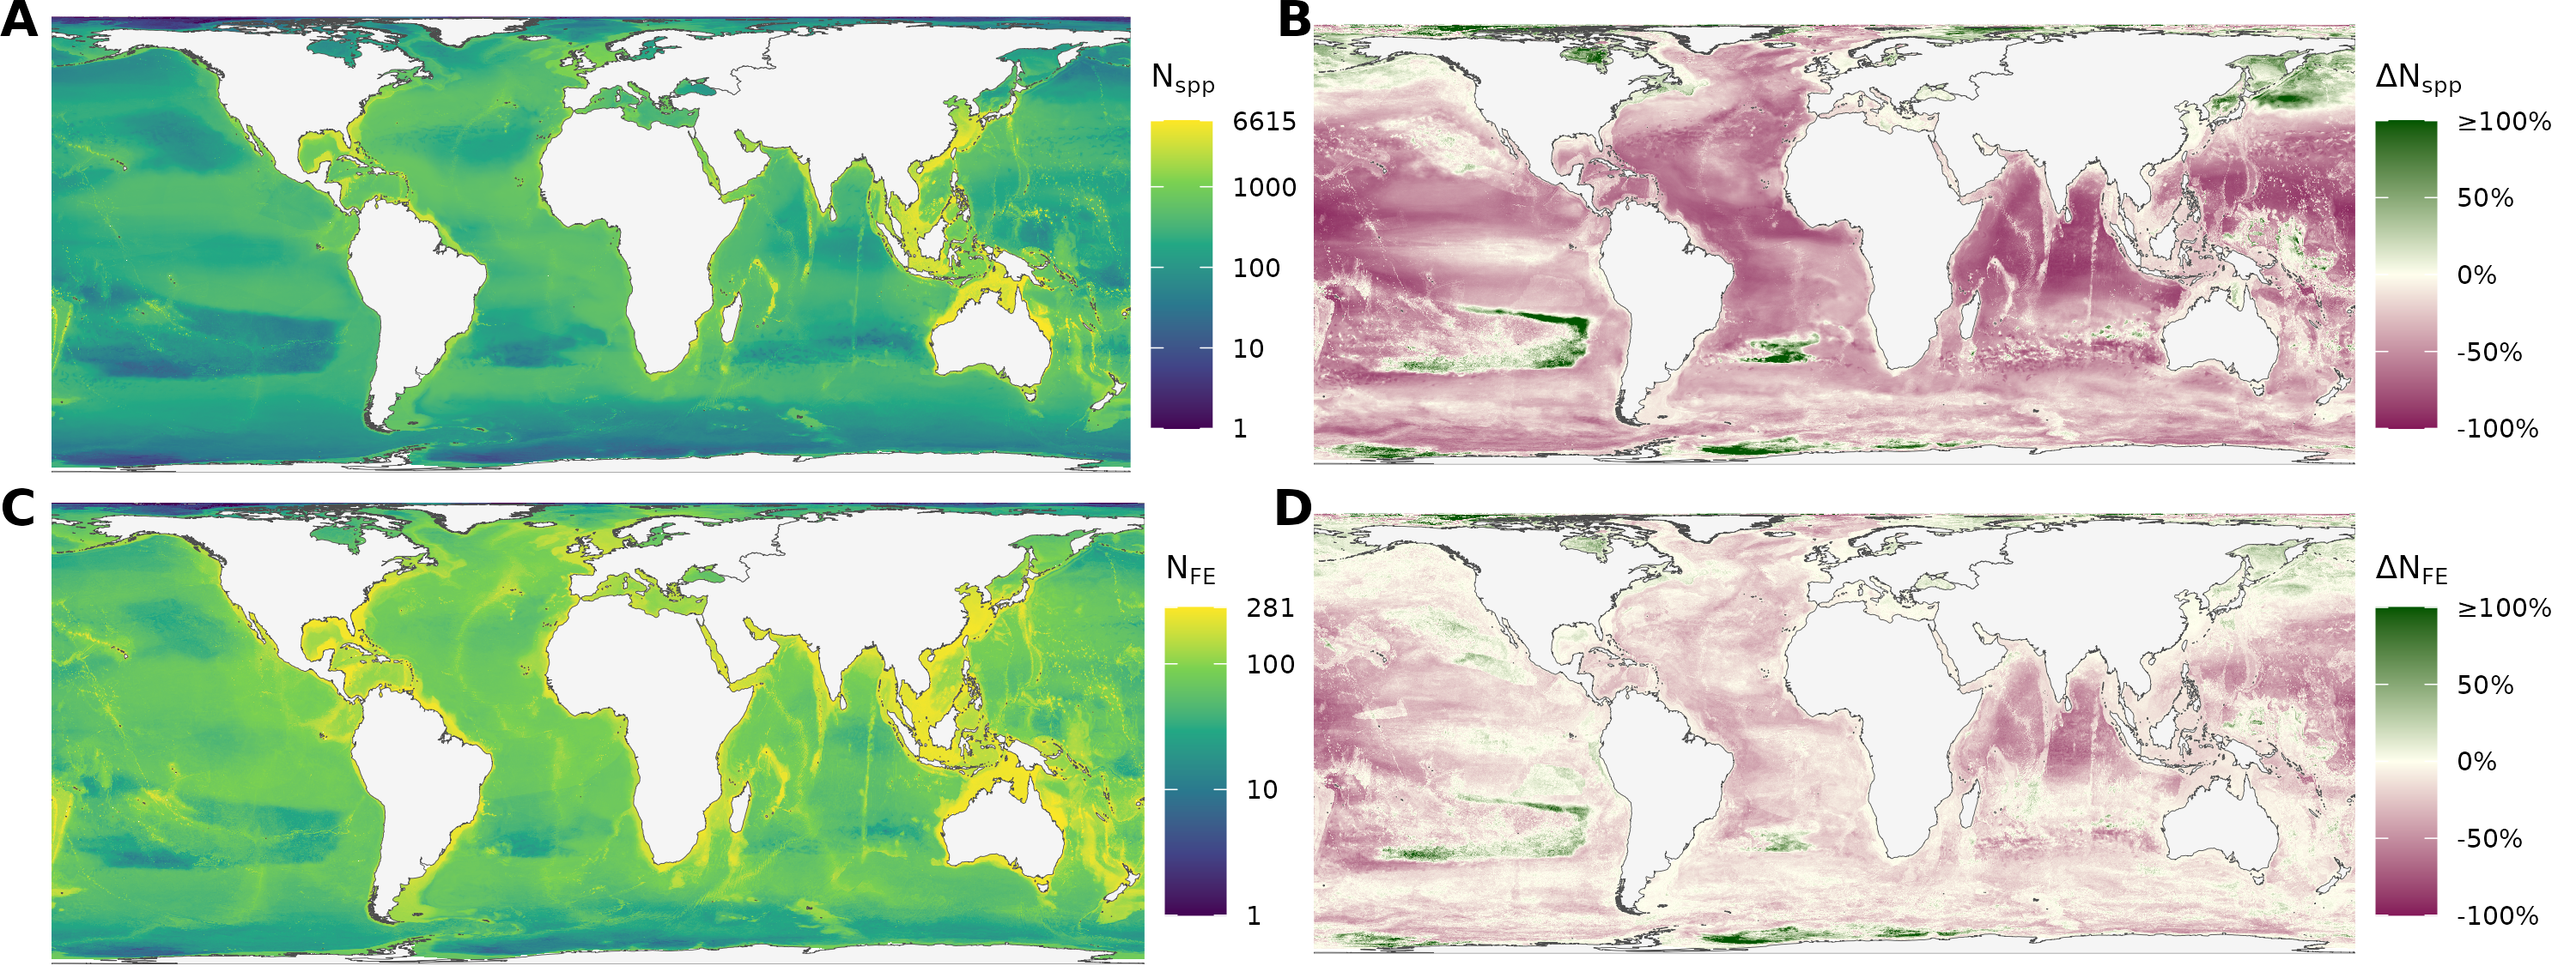
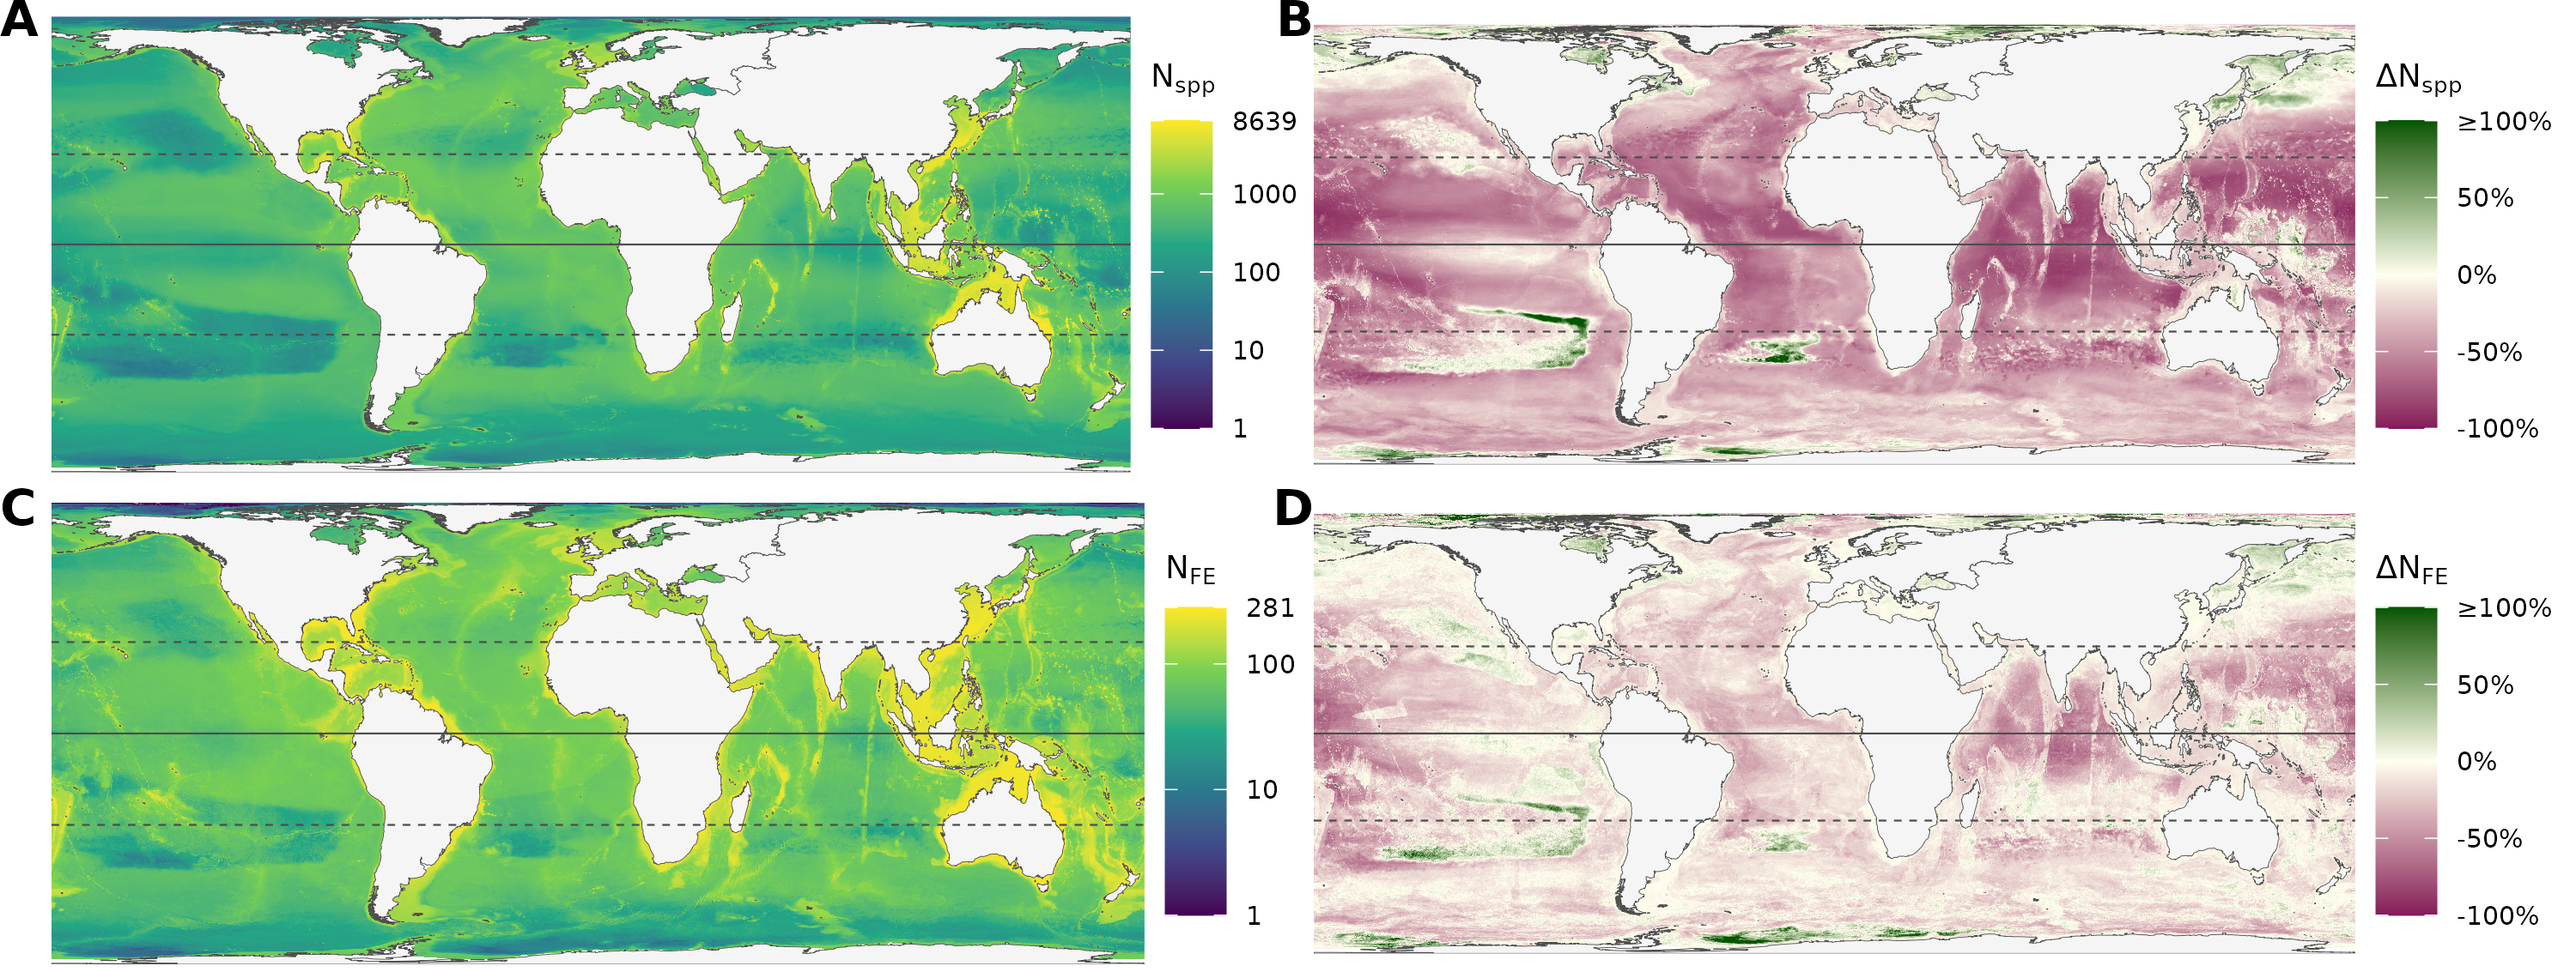
feat: add visualization of top predator richness, change, etc
Also added a function to standardize maps that includes lines for the tropic latitudes and equator

diff --git a/AGENTS.md b/AGENTS.md
@@ -1,0 +1,51 @@
+## Project
+
+`chi_shifts` examines how cumulative human impacts change as stressors and species ranges shift over time. Analysis combines species distribution models (SDMs), species vulnerability traits, and stressor (pressure) maps on a common global raster grid.
+
+## Directory structure
+
+- `data_mgmt/` — Quarto (`.qmd`) scripts (numbered `1_...` through `6_...`, plus `X_...` ad hoc ones) that download/build raw inputs into `_data/`. Run these before analysis scripts if a needed dataset is missing.
+- `scripts/` — Quarto (`.qmd`) analysis/mapping scripts (numbered `1_...` through `5_...`, plus `X_...` exploratory ones).
+- `_data/` — single consolidated data directory (previously split into `_data` and `_data_raw`; now merged). Subfolders by source/vintage:
+  - `biooracle_2026/` — Bio-ORACLE ocean temperature layers
+  - `eezs/` — EEZ and UN M49 georegion rasters/lookups
+  - `halpern_2025/` — Halpern et al. 2025 stressor/pressure/impact rasters (habitat maps, raw & rescaled pressures, impacts by pressure, cumulative impact)
+  - `iucn_redlist_2026/` — IUCN Red List assessments, WoRMS/AphiaID crosswalks
+  - `ohara_2024/` — species vulnerability framework traits/scores, functional entity traits
+  - `unep_wcmc_2026/` — MPA (WDPA/WDOECM) data
+- `_output/` — generated intermediate/final outputs (e.g. reprojected rasters, vuln maps by taxon).
+- `common_fxns.R` — shared helper functions (see below); source this at the top of scripts.
+- AquaX SDM source data lives outside the repo on the shared server at `/home/shares/data-aquax/` (accessed via `here_aquax()`), not under `_data/`.
+
+## Grid conventions
+
+Rasters/tables use a global lon-lat grid, default resolution `res = 0.05`, `ncols = 360/res`, with a 1-indexed row-major `cell_id` (row 1 = cells 1..ncols, scanning left to right). Convert between representations with the helpers in `common_fxns.R`:
+
+- `cell_id_to_xy(df, cell_id_col = 'cell_id', res = 0.05, drop = TRUE)` — cell_id → x/y cell-center coordinates.
+- `xy_to_cell_id(df, x_col = 'x', y_col = 'y', res = 0.05, drop = TRUE)` — inverse of the above.
+- `calc_cellrange(i, yslice_w, res = 0.05)` — computes a `cell_id` range for a latitude slice, for chunked/batched processing.
+
+## Key helper functions (`common_fxns.R`)
+
+- `here_aquax(f, ...)` — builds a path under the shared AquaX data directory.
+- `get_aquax_meta(meta, sdm = TRUE)` — loads AquaX species metadata.
+- `get_spp_traits()` / `get_spp_vuln()` — load species trait / vulnerability framework tables from `_data/ohara_2024/...` (requires the corresponding `data_mgmt/` script to have been run first).
+- `get_sdm(aphia_id, scenario, cellrange, apply_thresh, batch_size, threads, memory_limit)` — reads per-species SDM parquet files via DuckDB, with thresholding and batching for scale.
+- `sample_decomp(df)` — pools mean/sd/n across grouped samples (e.g. across species within a cell) using `collapse`.
+
+## Coding conventions
+
+- Use the base R pipe `|>` (not magrittr `%>%`), except where existing code already uses `%>%` for consistency within a file.
+- Prefer `collapse` (`fmutate`, `fsubset`, `fsum`, `GRP`, ...) over base/dplyr equivalents in performance-sensitive code operating on large per-cell/per-species tables.
+- Large per-file datasets (e.g. SDM parquet files) are queried via DuckDB (`duckdb`/`DBI`) rather than loaded fully into R.
+- Use `here::here()` / `here_aquax()` for paths rather than hardcoded absolute paths (except for the shared AquaX root, which is inherently absolute).
+- Use `janitor::clean_names()` when reading in external/raw tabular data.
+- When commenting for explanation, use triple hash `###` to start comment line
+
+## Behavioral rules for Posit Assistant
+
+- This runs on a **shared server** — when writing or modifying DuckDB queries or other parallelized code, always cap `threads` and `memory_limit` (see `get_sdm()` for existing defaults) rather than letting them run unbounded.
+- Treat `/home/shares/data-aquax/` (via `here_aquax()`) as **read-only**; never write, delete, or modify files there.
+- Before overwriting or deleting existing files in `_data/`, `_output/`, or elsewhere, confirm with the user first — these are expensive to regenerate.
+- Do not assume `_data_raw/` still exists; all raw and processed data now live under a single `_data/` directory (as of the recent consolidation).
+- When adding new grid-indexed data, follow the existing `cell_id`/`x`/`y` conventions above rather than introducing a new indexing scheme.
